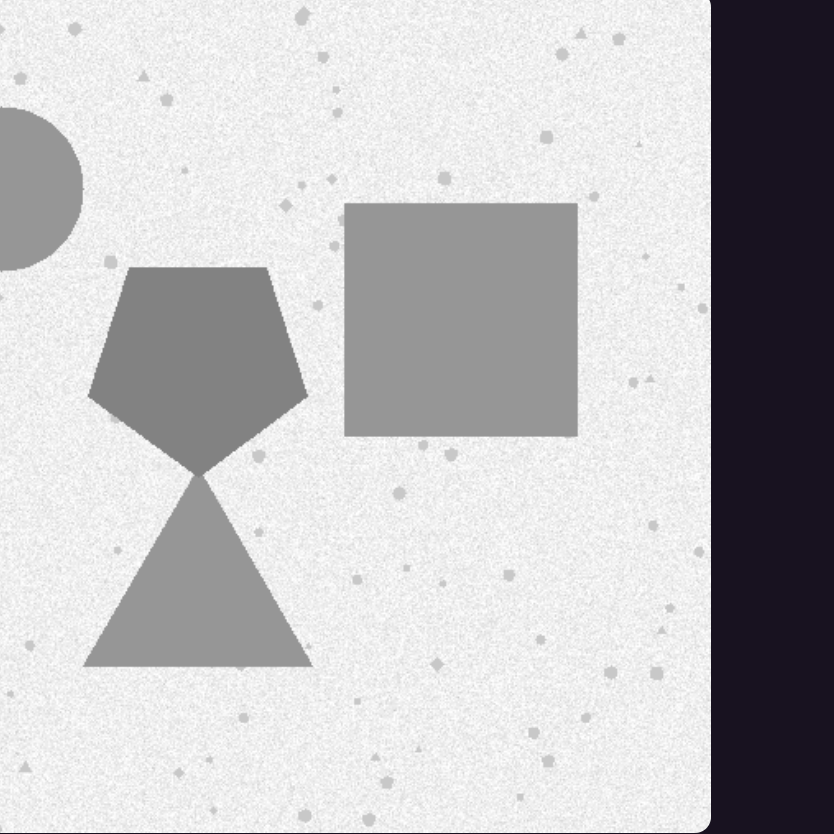
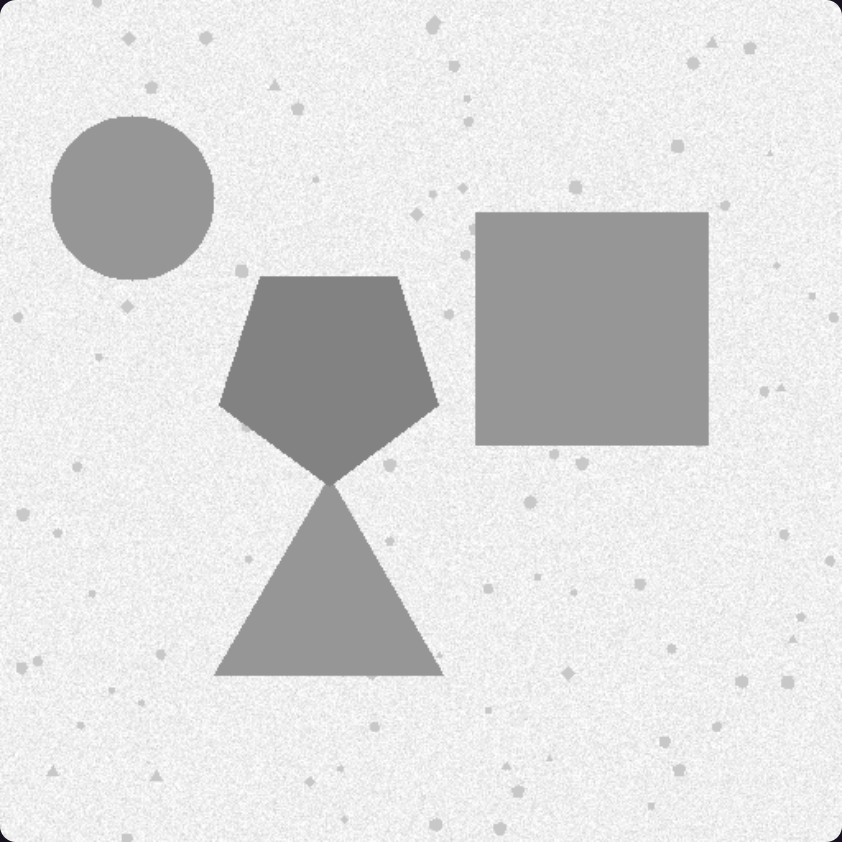
Restore hAIplay study-case context and clean Deteksi Bentuk figures.
Expand shared preambles for package delivery, logistic features, metrics, embeddings, and code reading so students see the full case, and replace messy screenshot crops for the noisy/edge shape assets.

diff --git a/src/app/globals.css b/src/app/globals.css
@@ -138,9 +138,65 @@ a {
   overflow-x: auto;
   background: #18212c;
   color: #e8eef5;
-  padding: 1rem;
+  padding: 1rem 1.1rem;
   border-radius: 1rem;
+  border: 1px solid rgba(255, 255, 255, 0.06);
+  margin: 0.85rem 0 1.1rem;
+  font-size: 0.9rem;
+  line-height: 1.55;
 }
+
+.prose-osn pre code {
+  background: transparent;
+  padding: 0;
+  color: inherit;
+  font-size: inherit;
+}
+
+.prose-osn h3 {
+  font-size: 1.05rem;
+  font-weight: 650;
+  margin: 1.1rem 0 0.45rem;
+}
+
+.prose-osn table {
+  width: 100%;
+  max-width: 28rem;
+  border-collapse: collapse;
+  margin: 0.65rem 0 1.1rem;
+  font-size: 0.95rem;
+  border: 1px solid var(--line);
+  border-radius: 0.85rem;
+  overflow: hidden;
+  background: rgba(255, 253, 248, 0.72);
+}
+
+.prose-osn thead th {
+  background: rgba(28, 36, 48, 0.06);
+  text-align: left;
+  font-size: 0.78rem;
+  letter-spacing: 0.04em;
+  text-transform: uppercase;
+  color: var(--muted);
+  padding: 0.65rem 0.85rem;
+  border-bottom: 1px solid var(--line);
+}
+
+.prose-osn td {
+  padding: 0.55rem 0.85rem;
+  border-top: 1px solid var(--line);
+  vertical-align: middle;
+}
+
+.prose-osn tbody tr:first-child td {
+  border-top: none;
+}
+
+.prose-osn td:first-child {
+  font-family: var(--font-mono), ui-monospace, monospace;
+  font-weight: 600;
+}
+
 
 @keyframes rise {
   from {

diff --git a/src/components/markdown.tsx b/src/components/markdown.tsx
@@ -17,7 +17,7 @@ export function Markdown({ content }: { content: string }) {
             <img
               src={src}
               alt={alt ?? ""}
-              className="my-3 max-h-[28rem] w-auto max-w-full rounded-md border border-border bg-white"
+              className="my-3 h-auto max-h-[28rem] w-auto max-w-full rounded-md border border-[var(--line)] object-contain bg-[var(--panel)]"
             />
           ),
         }}
